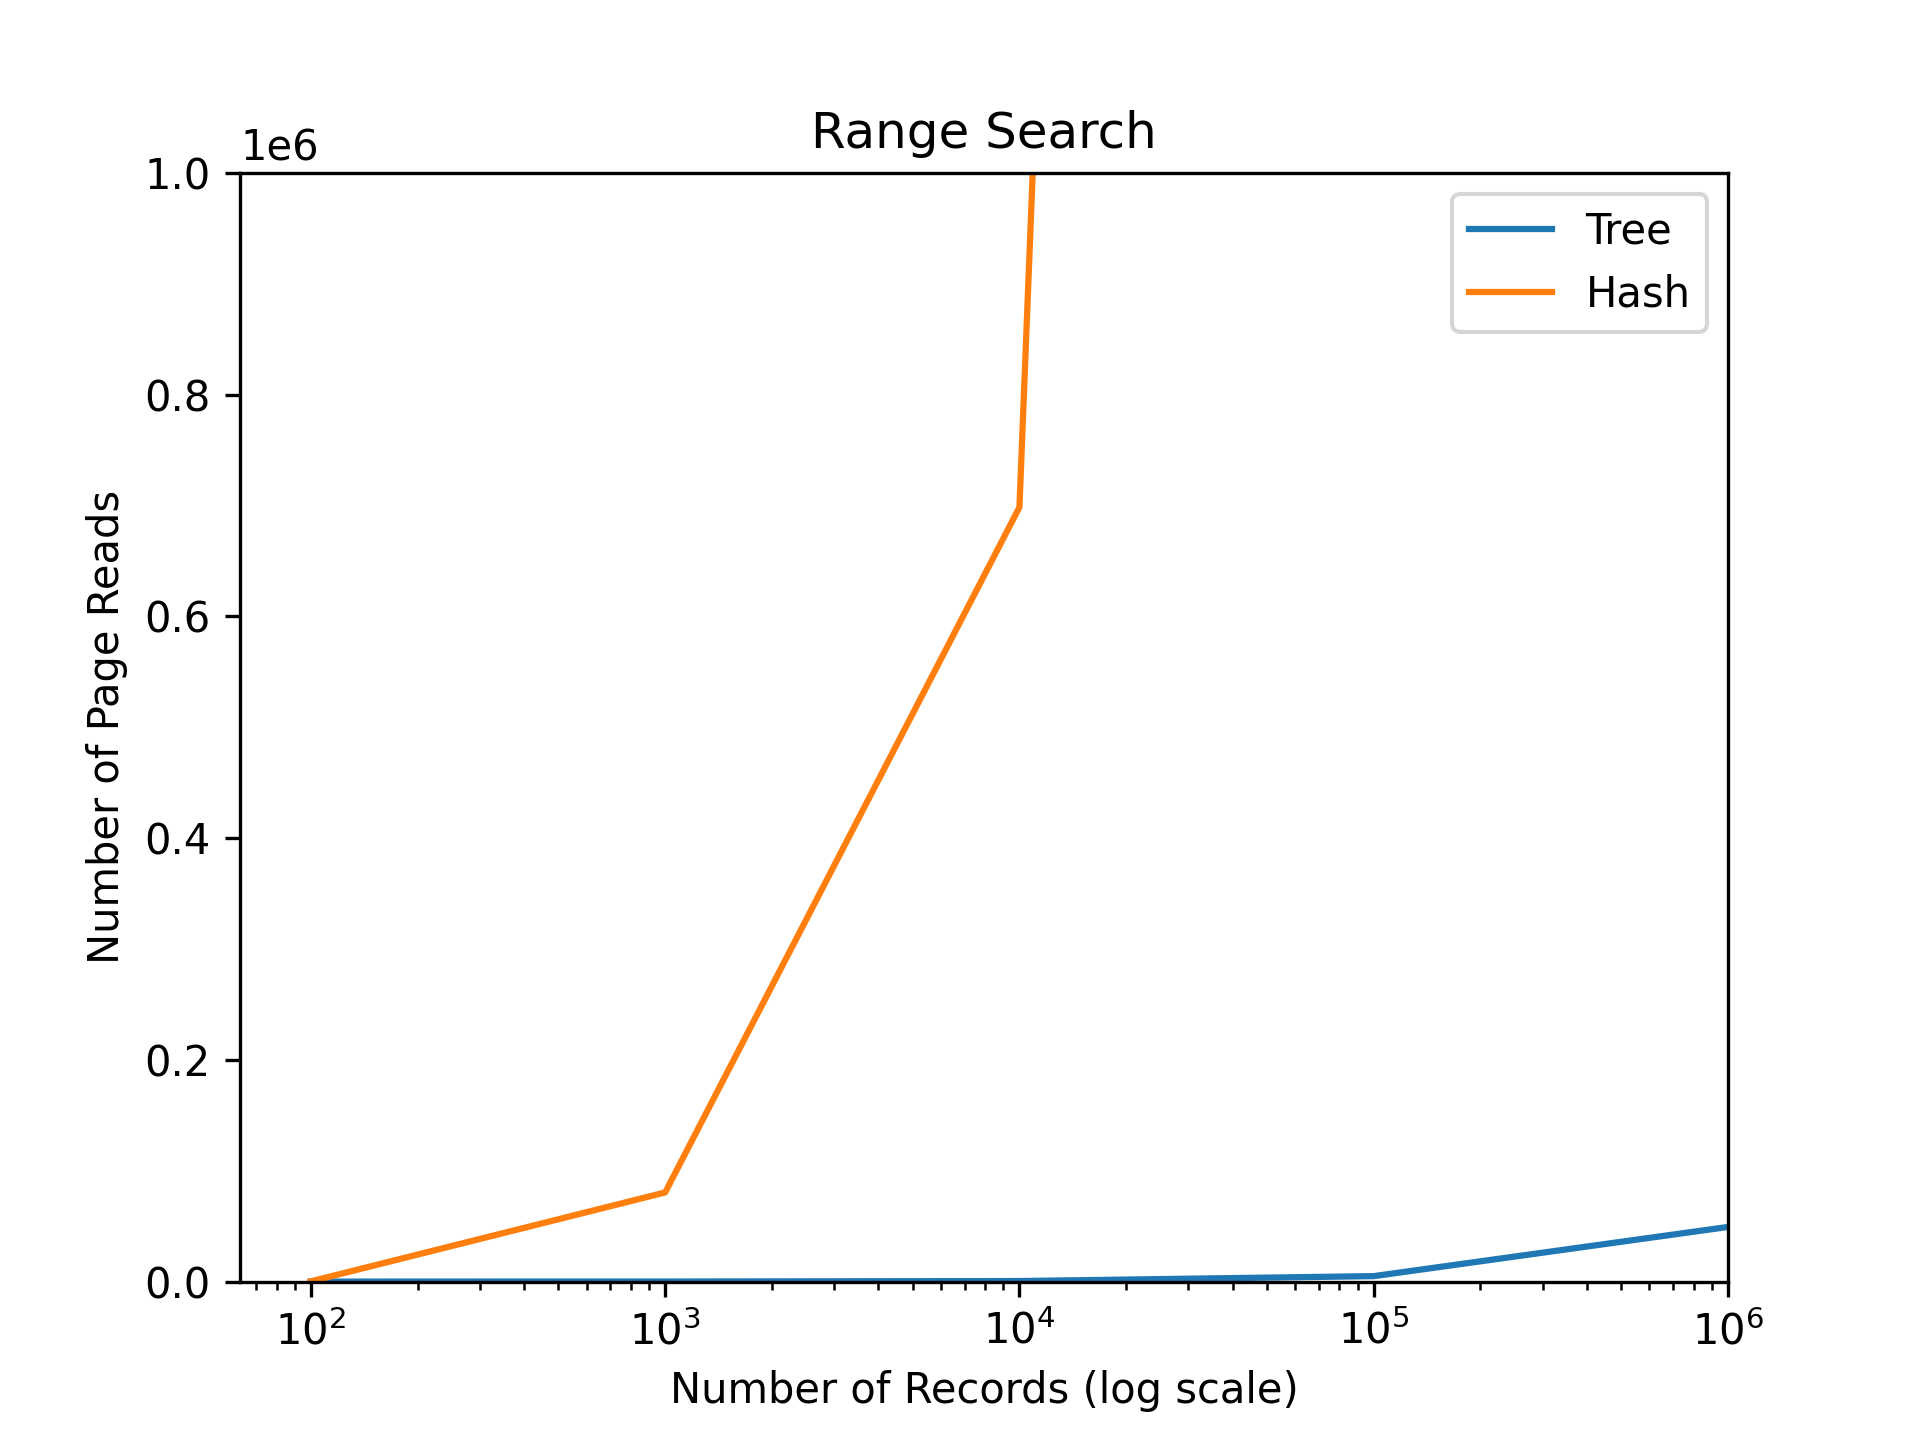
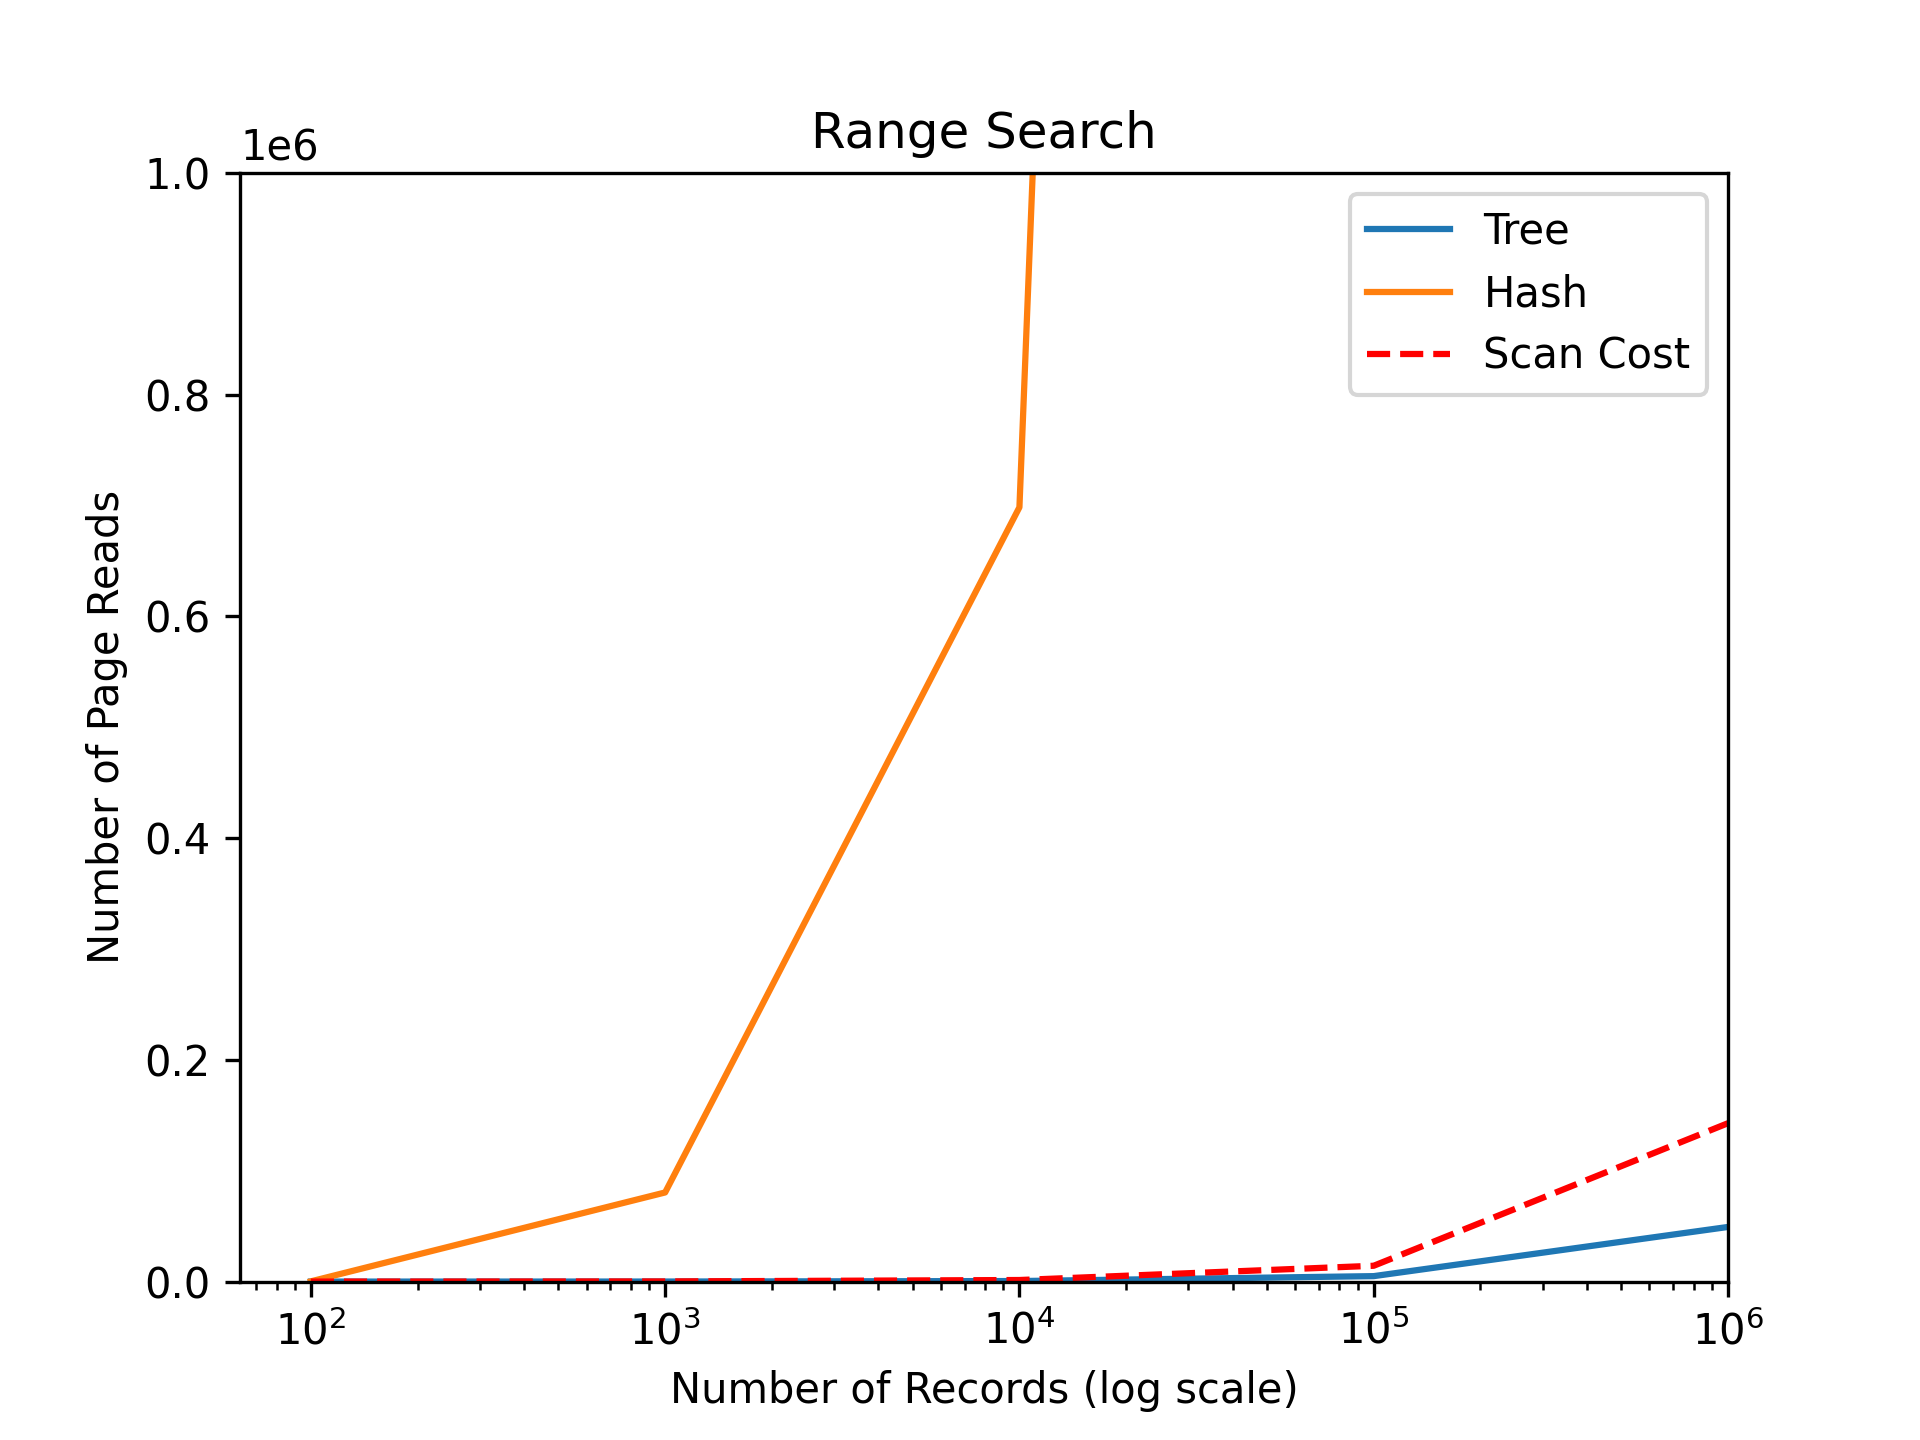
added more plots and stuff

diff --git a/plotStats.py b/plotStats.py
@@ -1,6 +1,8 @@
 import matplotlib.pyplot as plt
+import numpy as np
 
-
+def scanCost(nRecords):
+    return nRecords/7
 
 with open('./Documents/plotRangeSearchStats.txt') as f:
     l = f.readline()
@@ -21,11 +23,12 @@ with open('./Documents/plotRangeSearchStats.txt') as f:
     while (l != "\n"):
         hash_lines.append(l)
         l = f.readline()
-    x_hash = [int(line.strip().split()[0]) for line in hash_lines]
-    y_hash = [int(line.strip().split()[1]) for line in hash_lines]
+    x_hash = np.array([int(line.strip().split()[0]) for line in hash_lines])
+    y_hash = np.array([int(line.strip().split()[1]) for line in hash_lines])
 
-plt.plot(x_tree, y_tree, label="Tree")
+plt.plot(x_tree, y_tree , label="Tree")
 plt.plot(x_hash, y_hash, label="Hash")
+plt.plot(x_hash, scanCost(x_hash), 'r--', label="Scan Cost")
 # plt.yscale("log")
 # plt.xscale("log")
 plt.xlim(right=1E6)
@@ -41,11 +44,30 @@ plt.savefig("./Documents/rangeSearchReadsPlot.png", dpi=300)
 
 plt.clf()
 
+plt.plot(x_tree, np.divide(y_tree, x_tree), label="Tree")
+plt.plot(x_hash, np.divide(y_hash, x_tree), label="Hash")
+plt.plot(x_hash, np.divide(scanCost(x_hash), x_hash), 'r--', label="Scan Cost")
+plt.yscale("log")
+plt.xscale("log")
+plt.xlim(right=1E6)
+# plt.ylim(bottom=0)
+plt.ylim(top=1E6)
+plt.xlabel('Number of Records (log scale)')
+plt.ylabel('Number of Page Reads / Record (log scale)')
+plt.title('Range Search')
+plt.legend()
+# plt.show()
+plt.savefig("./Documents/rangeSearchReadsPerRecordLogPlot.png", dpi=300)
+
+plt.clf()
+
 plt.plot(x_tree, y_tree, label="Tree")
 plt.plot(x_hash, y_hash, label="Hash")
+plt.plot(x_hash, scanCost(x_hash), 'r--', label="Scan Cost")
 # plt.yscale("log")
 plt.xscale("log")
 plt.xlim(right=1E6)
+# plt.xlim(left=0)
 plt.ylim(bottom=0)
 plt.ylim(top=1E6)
 plt.xlabel('Number of Records (log scale)')
@@ -76,19 +98,20 @@ with open('./Documents/plotSearchStats.txt') as f:
     while (l != "\n"):
         hash_lines.append(l)
         l = f.readline()
-    x_hash = [int(line.strip().split()[0]) for line in hash_lines]
-    y_hash = [int(line.strip().split()[1]) for line in hash_lines]
+    x_hash = np.array([int(line.strip().split()[0]) for line in hash_lines])
+    y_hash = np.array([int(line.strip().split()[1]) for line in hash_lines])
 
-plt.plot(x_tree, y_tree, label="Tree")
-plt.plot(x_hash, y_hash, label="Hash")
+plt.plot(x_tree, np.divide(y_tree, x_tree), label="Tree")
+plt.plot(x_hash, np.divide(y_hash, x_hash), label="Hash")
+# plt.plot(x_hash, scanCost(x_hash), 'r--', label="Scan Cost")
 # plt.yscale("log")
 # plt.xscale("log")
-plt.xlim(right=1E6) 
-plt.xlim(left=0) 
-plt.ylim(top=1E6) 
-plt.ylim(bottom=0) #
+# plt.xlim(right=1E6) 
+# plt.xlim(left=0) 
+# plt.ylim(top=1E6) 
+# plt.ylim(bottom=0) #
 plt.xlabel('Number of Records')
-plt.ylabel('Number of Page Reads')
+plt.ylabel('Number of Page Reads / Record')
 plt.title('Search')
 plt.legend()
 # plt.show()
